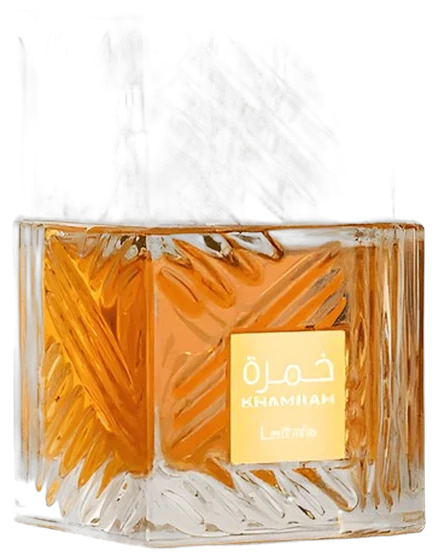
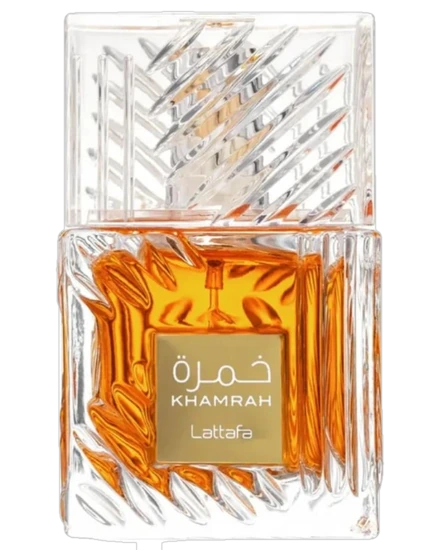
تحسين صورة خمرة: الغطاء الزجاجي باين بعد إزالة الخلفية
Claude-Session: https://claude.ai/code/session_01RK8WfEoKcEhLgW2yFCyWVe

diff --git a/index.html b/index.html
@@ -569,6 +569,6 @@
 
 <script src="https://cdn.jsdelivr.net/npm/@supabase/supabase-js@2.45.4/dist/umd/supabase.js"></script>
 <script src="config.js"></script>
-<script src="assets/store.js?v=4"></script>
+<script src="assets/store.js?v=5"></script>
 </body>
 </html>
